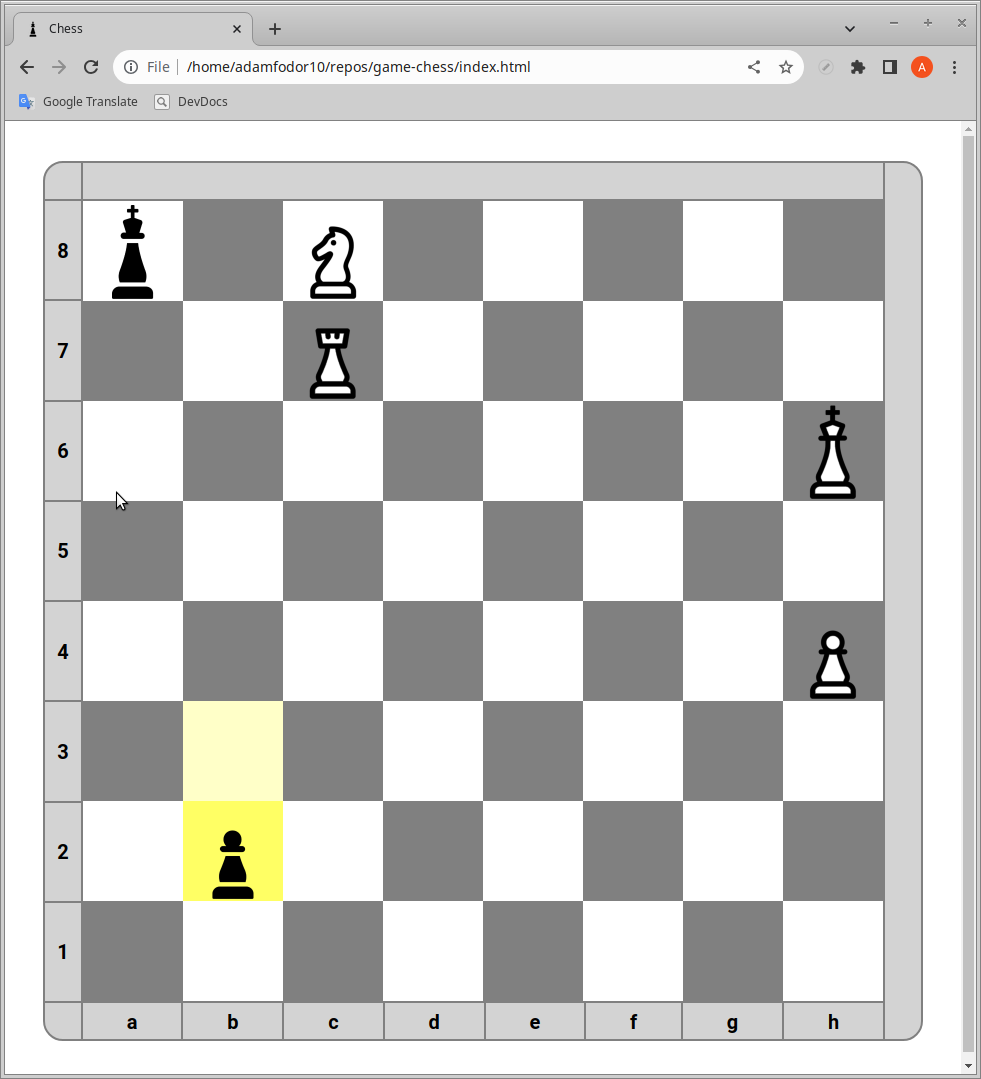
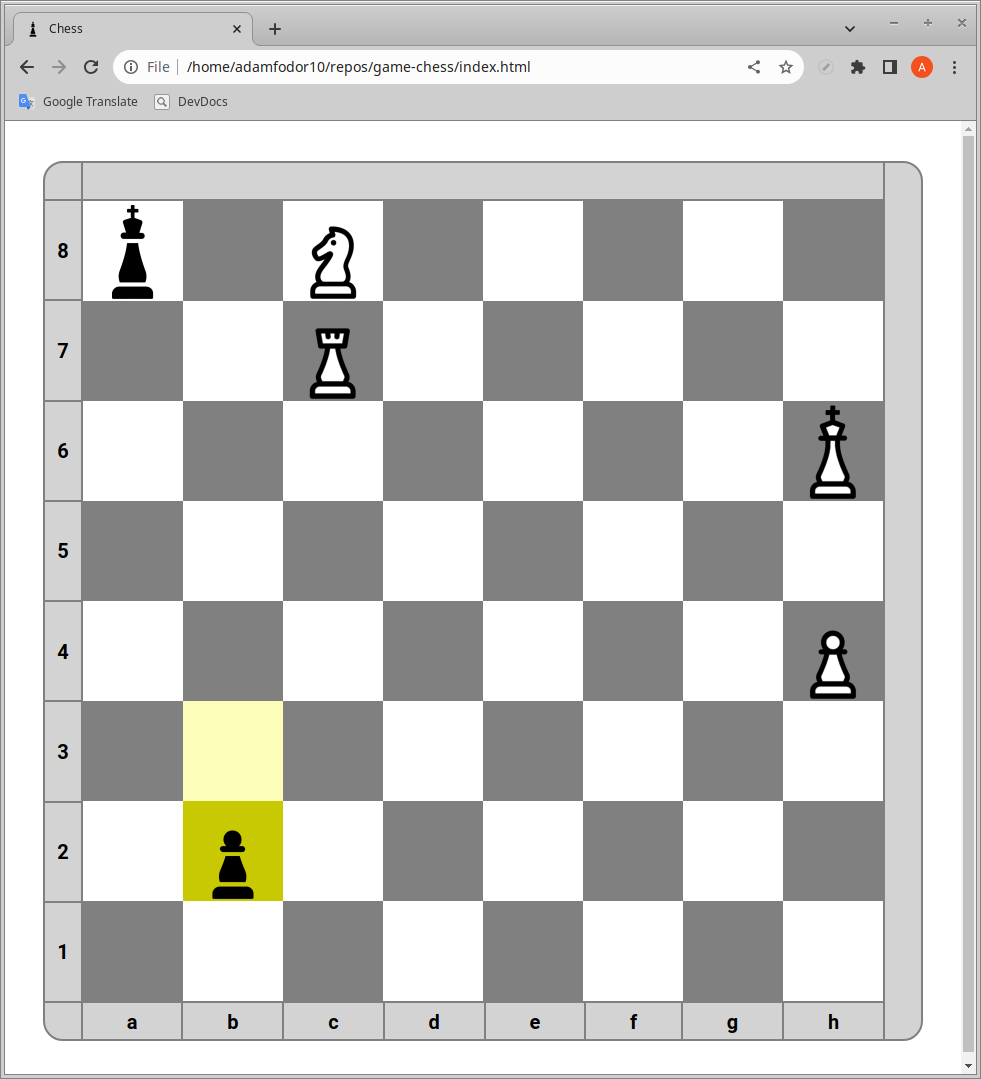
Update background colors and screenshots

Changed region(s): [[0.1835, 0.734, 0.3058, 0.8563]]

diff --git a/style.css b/style.css
@@ -179,33 +179,33 @@ body {
 }
 
 .previous-step-on-white-square {
-    background-color: rgb(255, 255, 200);
+    background-color: #fdfdba;
 }
 
 .previous-step-on-black-square {
-    background-color: rgb(255, 255, 100);
+    background-color: #c8c803;
 }
 
 .current-step-on-white-square {
-    background-color: rgb(255, 255, 200);
+    background-color: #fdfdba;
 }
 
 .current-step-on-black-square {
-    background-color: rgb(255, 255, 100);
+    background-color: #c8c803;
 }
 
 .move-on-white-square {
-    background-color: lightgreen;
+    background-color: #bad6b8;
 }
 
 .move-on-black-square {
-    background-color: darkgreen;
+    background-color: #447241;
 }
 
 .capture-on-white-square {
-    background-color: lightpink;
+    background-color: #ff8680;
 }
 
 .capture-on-black-square {
-    background-color: darkred;
+    background-color: #9b0700;
 }
